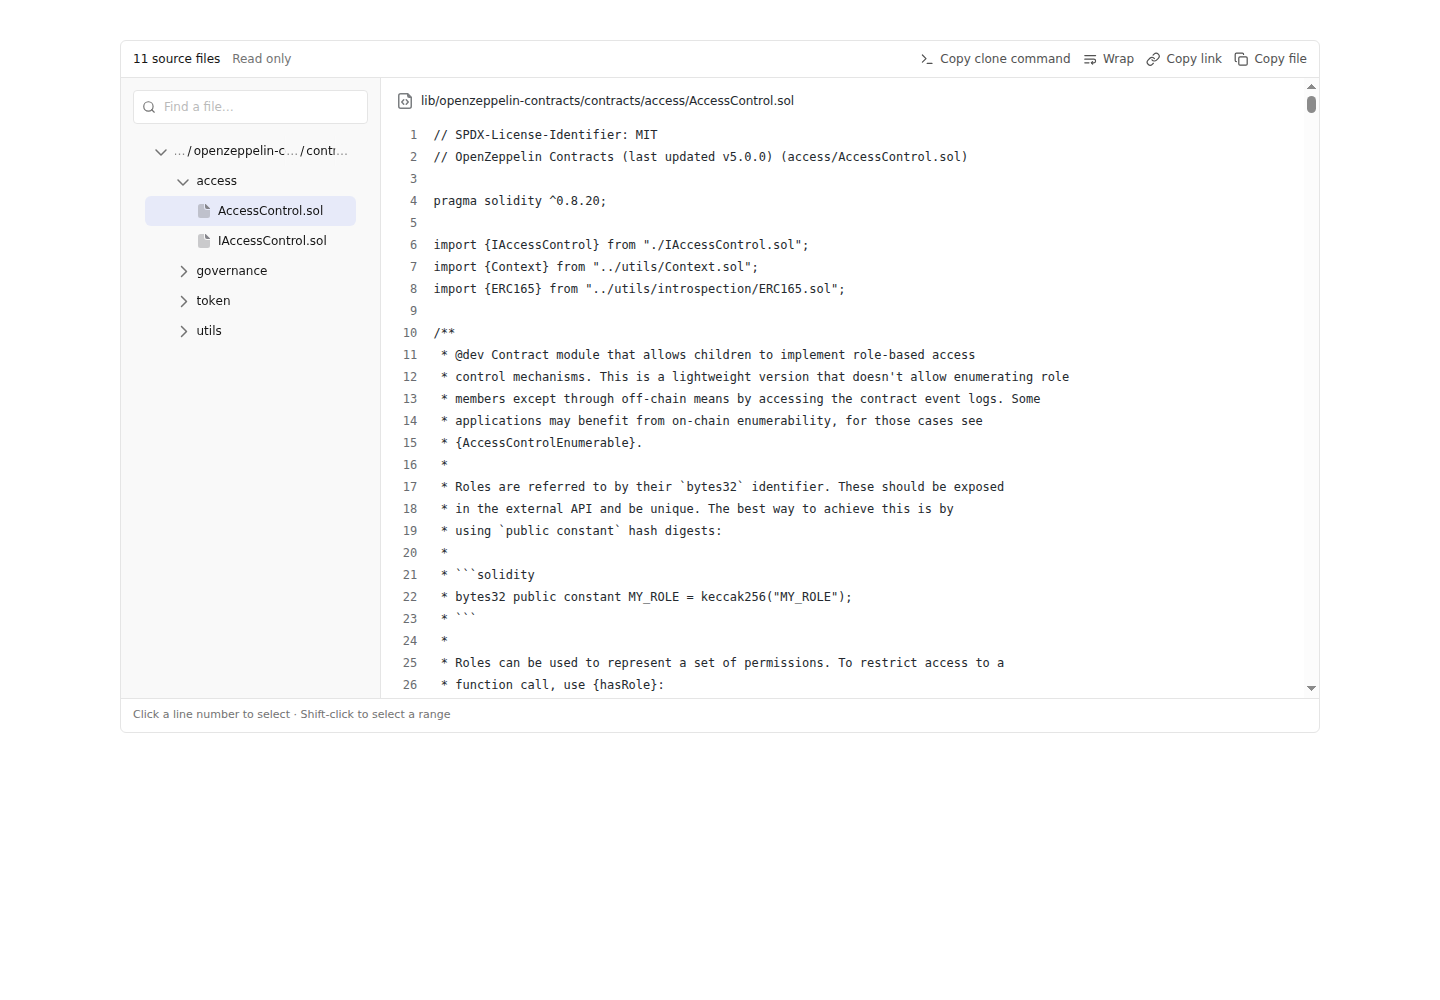
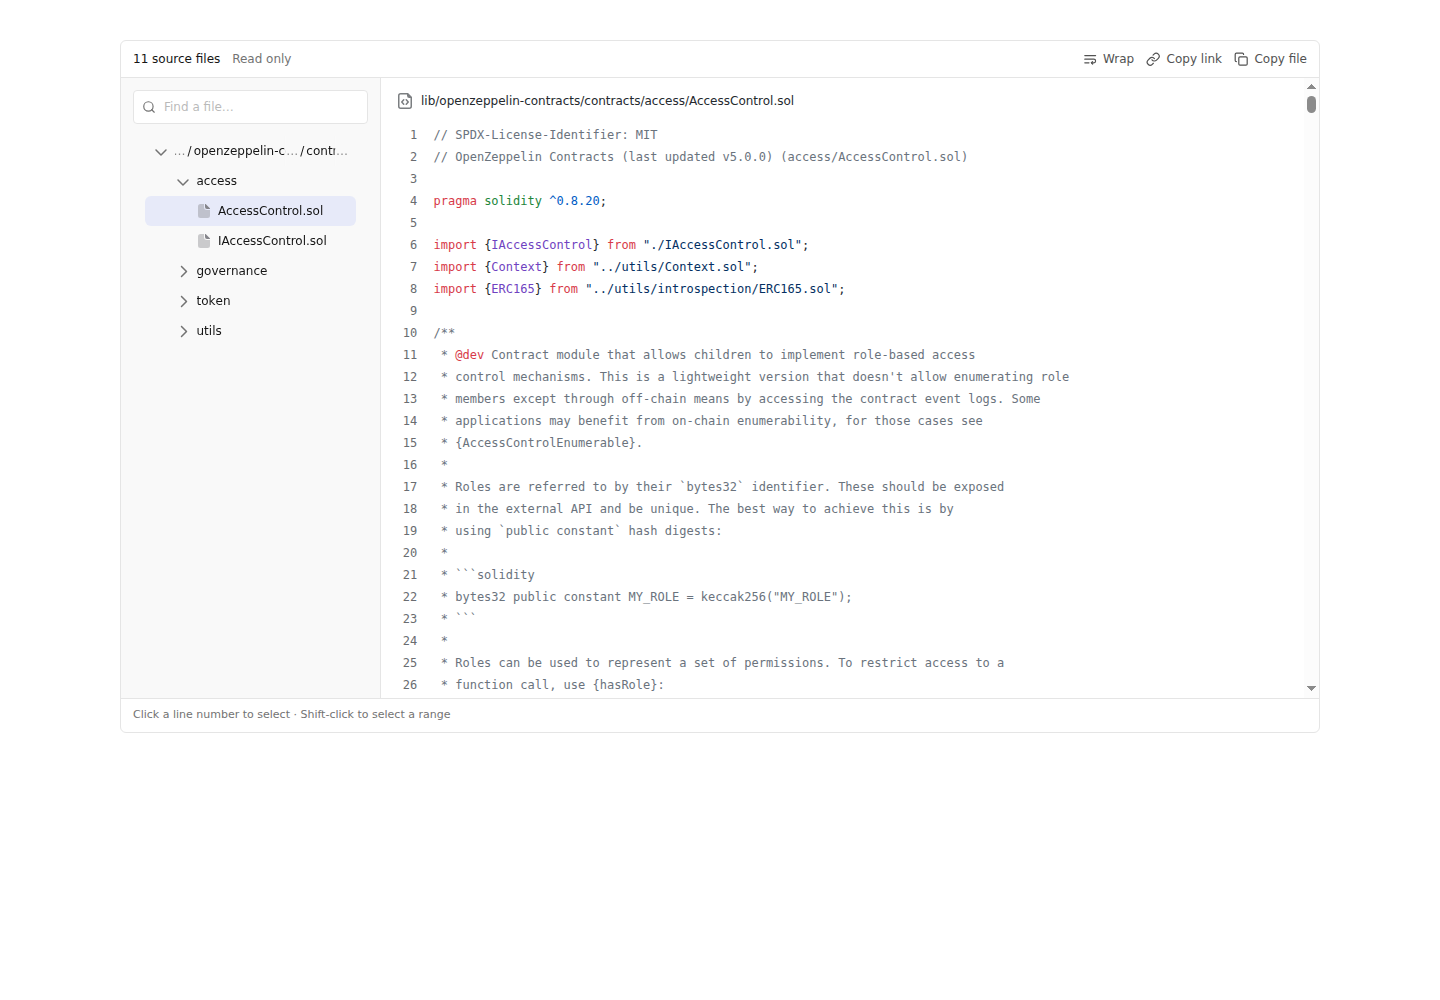
refactor(explorer): remove contract clone command

diff --git a/apps/explorer/test/contract-source.test.ts b/apps/explorer/test/contract-source.test.ts
@@ -1,7 +1,6 @@
 import { describe, expect, it } from 'vitest'
 import {
 	contractSourceQueryOptions,
-	getContractCloneCommand,
 	normalizeContractSourceResponse,
 	parseContractSource,
 } from '#lib/domain/contract-source.ts'
@@ -42,34 +41,6 @@ describe('contract-source parsing', () => {
 		expect(source.stdJsonInput.sources['contracts/Foo.sol']?.content).toContain(
 			'Foo',
 		)
-
-		const address = '0x379EF54309c35d317f405F3e9f77d1BdE9d713AF'
-		const verified = { ...source, address }
-		expect(
-			getContractCloneCommand(verified, 'https://contracts.tempo.xyz/'),
-		).toBe(
-			`forge clone ${address} contract-${address} --chain 4217 --sourcify-url 'https://contracts.tempo.xyz/v2/contract/4217' --keep-directory-structure --no-git`,
-		)
-		expect(
-			getContractCloneCommand(
-				{ ...verified, chainId: 42431 },
-				'https://contracts.tempo.xyz',
-			),
-		).toBe(
-			`forge clone ${address} contract-${address} --chain 42431 --sourcify-url 'https://contracts.tempo.xyz/v2/contract/42431' --keep-directory-structure --no-git`,
-		)
-		expect(
-			getContractCloneCommand(source, 'https://contracts.tempo.xyz'),
-		).toBeUndefined()
-		expect(
-			getContractCloneCommand(
-				{
-					...verified,
-					stdJsonInput: { ...source.stdJsonInput, language: 'Vyper' },
-				},
-				'https://contracts.tempo.xyz',
-			),
-		).toBeUndefined()
 	})
 
 	it('normalizes native contract source responses', () => {
@@ -121,9 +92,6 @@ describe('contract-source parsing', () => {
 
 		const reparsed = parseContractSource(source)
 		expect(reparsed.kind).toBe('native')
-		expect(
-			getContractCloneCommand(reparsed, 'https://contracts.tempo.xyz'),
-		).toBeUndefined()
 	})
 })
 

diff --git a/apps/explorer/src/comps/ContractCodeView.tsx b/apps/explorer/src/comps/ContractCodeView.tsx
@@ -12,7 +12,6 @@ import { useCopy } from '#lib/hooks'
 import { getInitialThemeMode } from '#lib/theme'
 import CopyIcon from '~icons/lucide/copy'
 import LinkIcon from '~icons/lucide/link'
-import TerminalIcon from '~icons/lucide/terminal'
 import WrapIcon from '~icons/lucide/wrap-text'
 
 export function ContractCodeView(
@@ -27,7 +26,6 @@ export function ContractCodeView(
 	const [theme, setTheme] = React.useState(getInitialThemeMode)
 	const sourceCopy = useCopy()
 	const linkCopy = useCopy()
-	const cloneCopy = useCopy()
 	const paths = React.useMemo(() => entries.map(([name]) => name), [entries])
 	const selectFile = React.useCallback((name: string) => {
 		setActiveFile(name)
@@ -149,19 +147,6 @@ export function ContractCodeView(
 					<span className="ml-2 font-normal text-tertiary">Read only</span>
 				</span>
 				<div className="flex flex-wrap items-center gap-3 text-secondary">
-					{props.cloneCommand && (
-						<button
-							type="button"
-							title={props.cloneCommand}
-							onClick={() => {
-								if (props.cloneCommand) void cloneCopy.copy(props.cloneCommand)
-							}}
-							className="flex items-center gap-1.5 cursor-pointer hover:text-primary"
-						>
-							<TerminalIcon />
-							{cloneCopy.notifying ? 'Copied!' : 'Copy clone command'}
-						</button>
-					)}
 					<button
 						type="button"
 						aria-pressed={wrap}
@@ -236,7 +221,6 @@ export function ContractCodeView(
 export declare namespace ContractCodeView {
 	type Props = {
 		entries: Array<[string, ContractSourceFile]>
-		cloneCommand?: string | undefined
 	}
 }
 

diff --git a/apps/explorer/src/comps/ContractSource.tsx b/apps/explorer/src/comps/ContractSource.tsx
@@ -1,11 +1,9 @@
 import * as React from 'react'
 import { cx } from '#lib/css'
-import {
-	type ContractSource,
-	type ContractSourceFile,
-	getContractCloneCommand,
+import type {
+	ContractSource,
+	ContractSourceFile,
 } from '#lib/domain/contract-source.ts'
-import { clientEnv } from '#lib/env'
 import { useCopy, useCopyPermalink } from '#lib/hooks'
 import CheckIcon from '~icons/lucide/check'
 import CopyIcon from '~icons/lucide/copy'
@@ -60,10 +58,6 @@ export function SourceSection(props: ContractSource & { docsUrl?: string }) {
 			<SourceBrowser
 				key={`${props.chainId}:${props.address}`}
 				entries={getSourceEntries(props)}
-				cloneCommand={getContractCloneCommand(
-					props,
-					clientEnv.CONTRACT_VERIFICATION_API_BASE_URL,
-				)}
 			/>
 		</section>
 	)
@@ -71,7 +65,6 @@ export function SourceSection(props: ContractSource & { docsUrl?: string }) {
 
 function SourceBrowser(props: {
 	entries: Array<[string, ContractSourceFile]>
-	cloneCommand?: string | undefined
 }): React.JSX.Element {
 	const [Viewer, setViewer] =
 		React.useState<typeof import('./ContractCodeView').ContractCodeView>()
@@ -88,7 +81,7 @@ function SourceBrowser(props: {
 			mounted = false
 		}
 	}, [])
-	if (Viewer) return <Viewer {...props} />
+	if (Viewer) return <Viewer entries={props.entries} />
 	return (
 		<div className="flex flex-col gap-2">
 			{props.entries.map(([fileName, source]) => (

diff --git a/apps/explorer/src/lib/domain/contract-source.ts b/apps/explorer/src/lib/domain/contract-source.ts
@@ -135,24 +135,6 @@ export const ContractSourceSchema = z.union([
 export type ContractSource = z.infer<typeof ContractSourceSchema>
 export type ContractSourceFile = z.infer<typeof SourceFileSchema>
 
-export function getContractCloneCommand(
-	source: ContractSource,
-	verifierUrl: string,
-): string | undefined {
-	if (
-		source.kind !== 'verified' ||
-		source.stdJsonInput.language !== 'Solidity' ||
-		!isAddress(source.address) ||
-		!Number.isSafeInteger(source.chainId) ||
-		source.chainId <= 0
-	)
-		return undefined
-	// Forge's custom Sourcify URL expects the full API path through the chain ID.
-	const url = `${verifierUrl.replace(/\/+$/, '')}/v2/contract/${source.chainId}`
-	const quotedUrl = `'${url.replaceAll("'", "'\\''")}'`
-	return `forge clone ${source.address} contract-${source.address} --chain ${source.chainId} --sourcify-url ${quotedUrl} --keep-directory-structure --no-git`
-}
-
 export function normalizeContractSourceResponse(
 	data: z.infer<typeof RawContractVerificationLookupSchema>,
 ): ContractSource {
